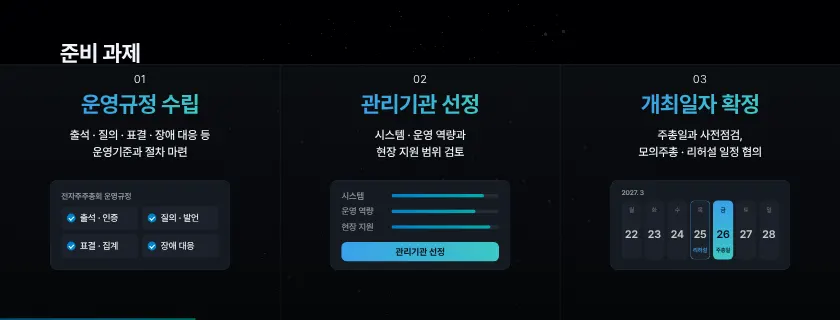
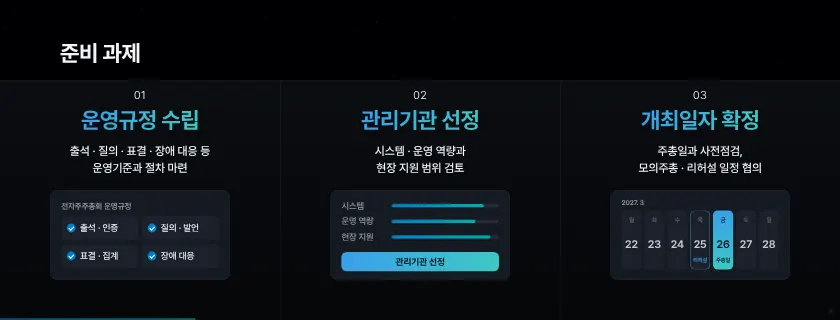
session4 K13: 아래 박스 전체 80px 아래로(제목과 간격), 카드 끝 1356px
Claude-Session: https://claude.ai/code/session_01Mn7NmyW5iujmmHnaRBFKBZ

diff --git a/sw.js b/sw.js
@@ -1,5 +1,5 @@
 /* 오프라인 캐시 — 온라인 주소(https)로 한 번 열면 모든 파일을 저장해 두고, 통신이 끊겨도 저장본으로 동작합니다. */
-const V='seminar-screen-11262006';
+const V='seminar-screen-11262007';
 const FILES=["./","assets/KakaoBigSans-Bold.woff2","assets/KakaoBigSans-Regular.woff2","assets/KakaoSmallSans-Bold.woff2","assets/KakaoSmallSans-Light.woff2","assets/KakaoSmallSans-Regular.woff2","assets/OrbitControls.js","assets/PretendardVariable.woff2","assets/attendees.js","assets/blue-bloom.html","assets/cong1.webp","assets/cong2.webp","assets/ds-bg.html","assets/four-states.html","assets/intro.mp4","assets/irk-white.svg","assets/irk-wordmark-white.svg","assets/kism-intro.mp4","assets/kism-white.svg","assets/ksmp-white.svg","assets/panel.js","assets/qa-online.js","assets/s2/img1.png","assets/s2/img2.png","assets/s2/img3.png","assets/s2/img4.png","assets/s4/aws.webp","assets/s4/callcenter.webp","assets/s4/chair-1.webp","assets/s4/chair-2.webp","assets/s4/chair-3.webp","assets/s4/conexus-word.webp","assets/s4/ctl-1.webp","assets/s4/cx-1.webp","assets/s4/cx-2.webp","assets/s4/cx-3.webp","assets/s4/cx-flow.mp4","assets/s4/cx-pop1.webp","assets/s4/cx-pop2.webp","assets/s4/cx-vote.mp4","assets/s4/cx-vote.webp","assets/s4/cxs-1.webp","assets/s4/insurance.webp","assets/s4/isms-t.webp","assets/s4/isms.webp","assets/s4/ismsp-t.webp","assets/s4/ismsp.webp","assets/s4/kosmos-white.png","assets/s4/ks-1.webp","assets/s4/ks-2.webp","assets/s4/ks-3.webp","assets/s4/ks-4.webp","assets/s4/ks-5.webp","assets/s4/ks-video.webp","assets/s4/live-1.webp","assets/s4/live-2.webp","assets/s4/live-3.webp","assets/s4/live-4.webp","assets/s4/live-5.webp","assets/s4/live-6.webp","assets/s4/live-7.webp","assets/s4/live-8.webp","assets/s4/logos.webp","assets/s4/ocr-1.webp","assets/s4/ocr-2.webp","assets/s4/ocr-3.webp","assets/s4/ocr-4.webp","assets/s4/ocr-5.webp","assets/s4/on-1.png","assets/s4/on-2.webp","assets/s4/on-3.webp","assets/s4/on-4.png","assets/s4/on-5.webp","assets/s4/onboard-1.webp","assets/s4/onboard-2.webp","assets/s4/privacy.webp","assets/s4/proxymity.svg","assets/s4/rehearsal.webp","assets/s4/streaming-korea.webp","assets/s4/tab-1.webp","assets/s4/tab-2.webp","assets/s4/team.webp","assets/sched.js","assets/screen-title-2.svg","assets/screen-title-b-text.svg","assets/screen-title-b.svg","assets/seat-banners.js","assets/seat-fascia.js","assets/seat-screen.js","assets/seatmap.js","assets/service-intro.mp4","assets/speaker-scott.webp","assets/speaker1-1.webp","assets/speaker2.webp","assets/speaker3-1.webp","assets/supabase.min.js","assets/three.min.js","assets/title-logos.svg","control.html","index-fs.html","index.html","kism.html","lobby/cuts.html","lobby/index.html","mc.html","session2.html","session4.html","sw.js","tools/s2_build.py","tools/s2_shell.html","assets/s3/p01.webp","assets/s3/p02.webp","assets/s3/p03.webp","assets/s3/p04.webp","assets/s3/p05.webp","assets/s3/p06.webp","assets/s3/p07.webp","assets/s3/p08.webp","assets/s3/p09.webp","assets/s3/p10.webp","assets/s3/p11.webp","assets/s3/p12.webp","assets/s3/p13.webp","assets/s3/p14.webp","assets/s3/p15.webp","assets/s3/p16.webp","assets/s3/p17.webp","assets/s3/p18.webp","assets/s3/p19.webp","assets/s3/p20.webp","assets/s3/p21.webp","assets/s3/p22.webp","assets/s3/p23.webp","assets/kism/photo-main.webp","assets/kism/photo-2.webp","assets/kism/photo-3.webp","assets/kism/photo-4.webp","assets/sound/countdown-tick.mp3","assets/sound/sfx-s3-part.mp3","assets/sound/sfx-s4-reveal.mp3","assets/sound/sfx-s5-proxymity.mp3","assets/sound/sfx-s6-chime.mp3","assets/sound/sfx-s7-close.mp3","assets/sound/opening-hit.mp3","assets/s4/kosmos-color.svg","assets/s4/ke-logo.png","assets/s4/ke-live.mp4","assets/kism/kwon-talk.mp4","assets/kism/manual-book.webp","kism-open.html","kism_16x9.html","led.html","assets/s4/cx-ops.mp4","assets/s4/cx-ops.webp","assets/s4/agent-app.mp4","assets/s4/agent-app.webp","assets/s4/k24b-bg.webp","session0.html","assets/kism/photo-main-cut.webp","assets/s4/cx-chair.mp4","assets/s4/cx-chair.webp","assets/s4/cx-test.mp4","assets/s4/cx-test.webp","assets/s4/onboard-mgr.webp","assets/s4/proxymity-logo.png","assets/s4/k21-bg.webp","assets/s4/kosmos-admin-white.svg","assets/kism-intro-16x9.mp4","assets/seat-guide.html","assets/s4/app-icon-agent.svg","assets/ds-main.mp4","assets/s4/k2-agency.webp","assets/s4/k2-support.webp","assets/s4/thumbs/K00.webp","assets/s4/thumbs/K01.webp","assets/s4/thumbs/K02.webp","assets/s4/thumbs/K03.webp","assets/s4/thumbs/K04.webp","assets/s4/thumbs/K05.webp","assets/s4/thumbs/K06.webp","assets/s4/thumbs/K07.webp","assets/s4/thumbs/K08.webp","assets/s4/thumbs/K09.webp","assets/s4/thumbs/K10.webp","assets/s4/thumbs/K11.webp","assets/s4/thumbs/K12.webp","assets/s4/thumbs/K13.webp","assets/s4/thumbs/K14.webp","assets/s4/thumbs/K15.webp","assets/s4/thumbs/K16.webp","assets/s4/thumbs/K17.webp","assets/s4/thumbs/K18a.webp","assets/s4/thumbs/K18b.webp","assets/s4/thumbs/K18c.webp","assets/s4/thumbs/K19.webp","assets/s4/thumbs/K19b.webp","assets/s4/thumbs/K20.webp","assets/s4/thumbs/K21.webp","assets/s4/thumbs/K21b.webp","assets/s4/thumbs/K22s.webp","assets/s4/thumbs/K23.webp","assets/s4/thumbs/K23b.webp","assets/s4/thumbs/K24a.webp","assets/s4/thumbs/K24b.webp","assets/s4/thumbs/K24c.webp","assets/s4/thumbs/K25.webp","assets/s4/thumbs/K25b.webp","assets/s4/thumbs/K26.webp","assets/s4/thumbs/K27.webp","assets/s4/thumbs/K28a.webp","assets/s4/thumbs/K28b.webp","assets/s4/thumbs/K28c.webp","assets/s4/thumbs/K28d.webp","assets/s4/thumbs/K29.webp","assets/s4/thumbs/K30.webp","assets/s4/thumbs/K09b.webp","assets/s4/thumbs/K28e.webp"];
 self.addEventListener('install',e=>{e.waitUntil(caches.open(V).then(c=>c.addAll(FILES)).then(()=>self.skipWaiting()));});
 self.addEventListener('activate',e=>{e.waitUntil(caches.keys().then(ks=>Promise.all(ks.filter(k=>k!==V).map(k=>caches.delete(k)))).then(()=>self.clients.claim()));});

diff --git a/session4.html b/session4.html
@@ -1569,8 +1569,8 @@ html,body,body *{touch-action:none;-webkit-touch-callout:none;-webkit-user-selec
 #K08 .k8h{top:370px!important}#K08 canvas.viz{top:470px!important}
 #K10 .rows{top:470px}
 #K11 .chart{top:540px;height:880px}
-#K13 .k13c{bottom:0}
-#K13 .cl{padding-top:44px}#K13 .dg{margin-bottom:250px}  /* 11/26 19:35 아래 카드를 위로(끝 1350px), 배경 띠는 화면 끝까지 */
+#K13 .k13c{bottom:0;top:400px}
+#K13 .cl{padding-top:44px}#K13 .dg{margin-bottom:200px}  /* 11/26 19:35 아래 카드를 위로(끝 1350px), 배경 띠는 화면 끝까지 */
 #K14 .k14p{top:400px}#K14 .tr{height:235px}
 #K15 .cols{top:800px;height:560px;left:300px;right:300px}
 #K19b>:not(.top):not(.k19i){translate:0 -70px}
